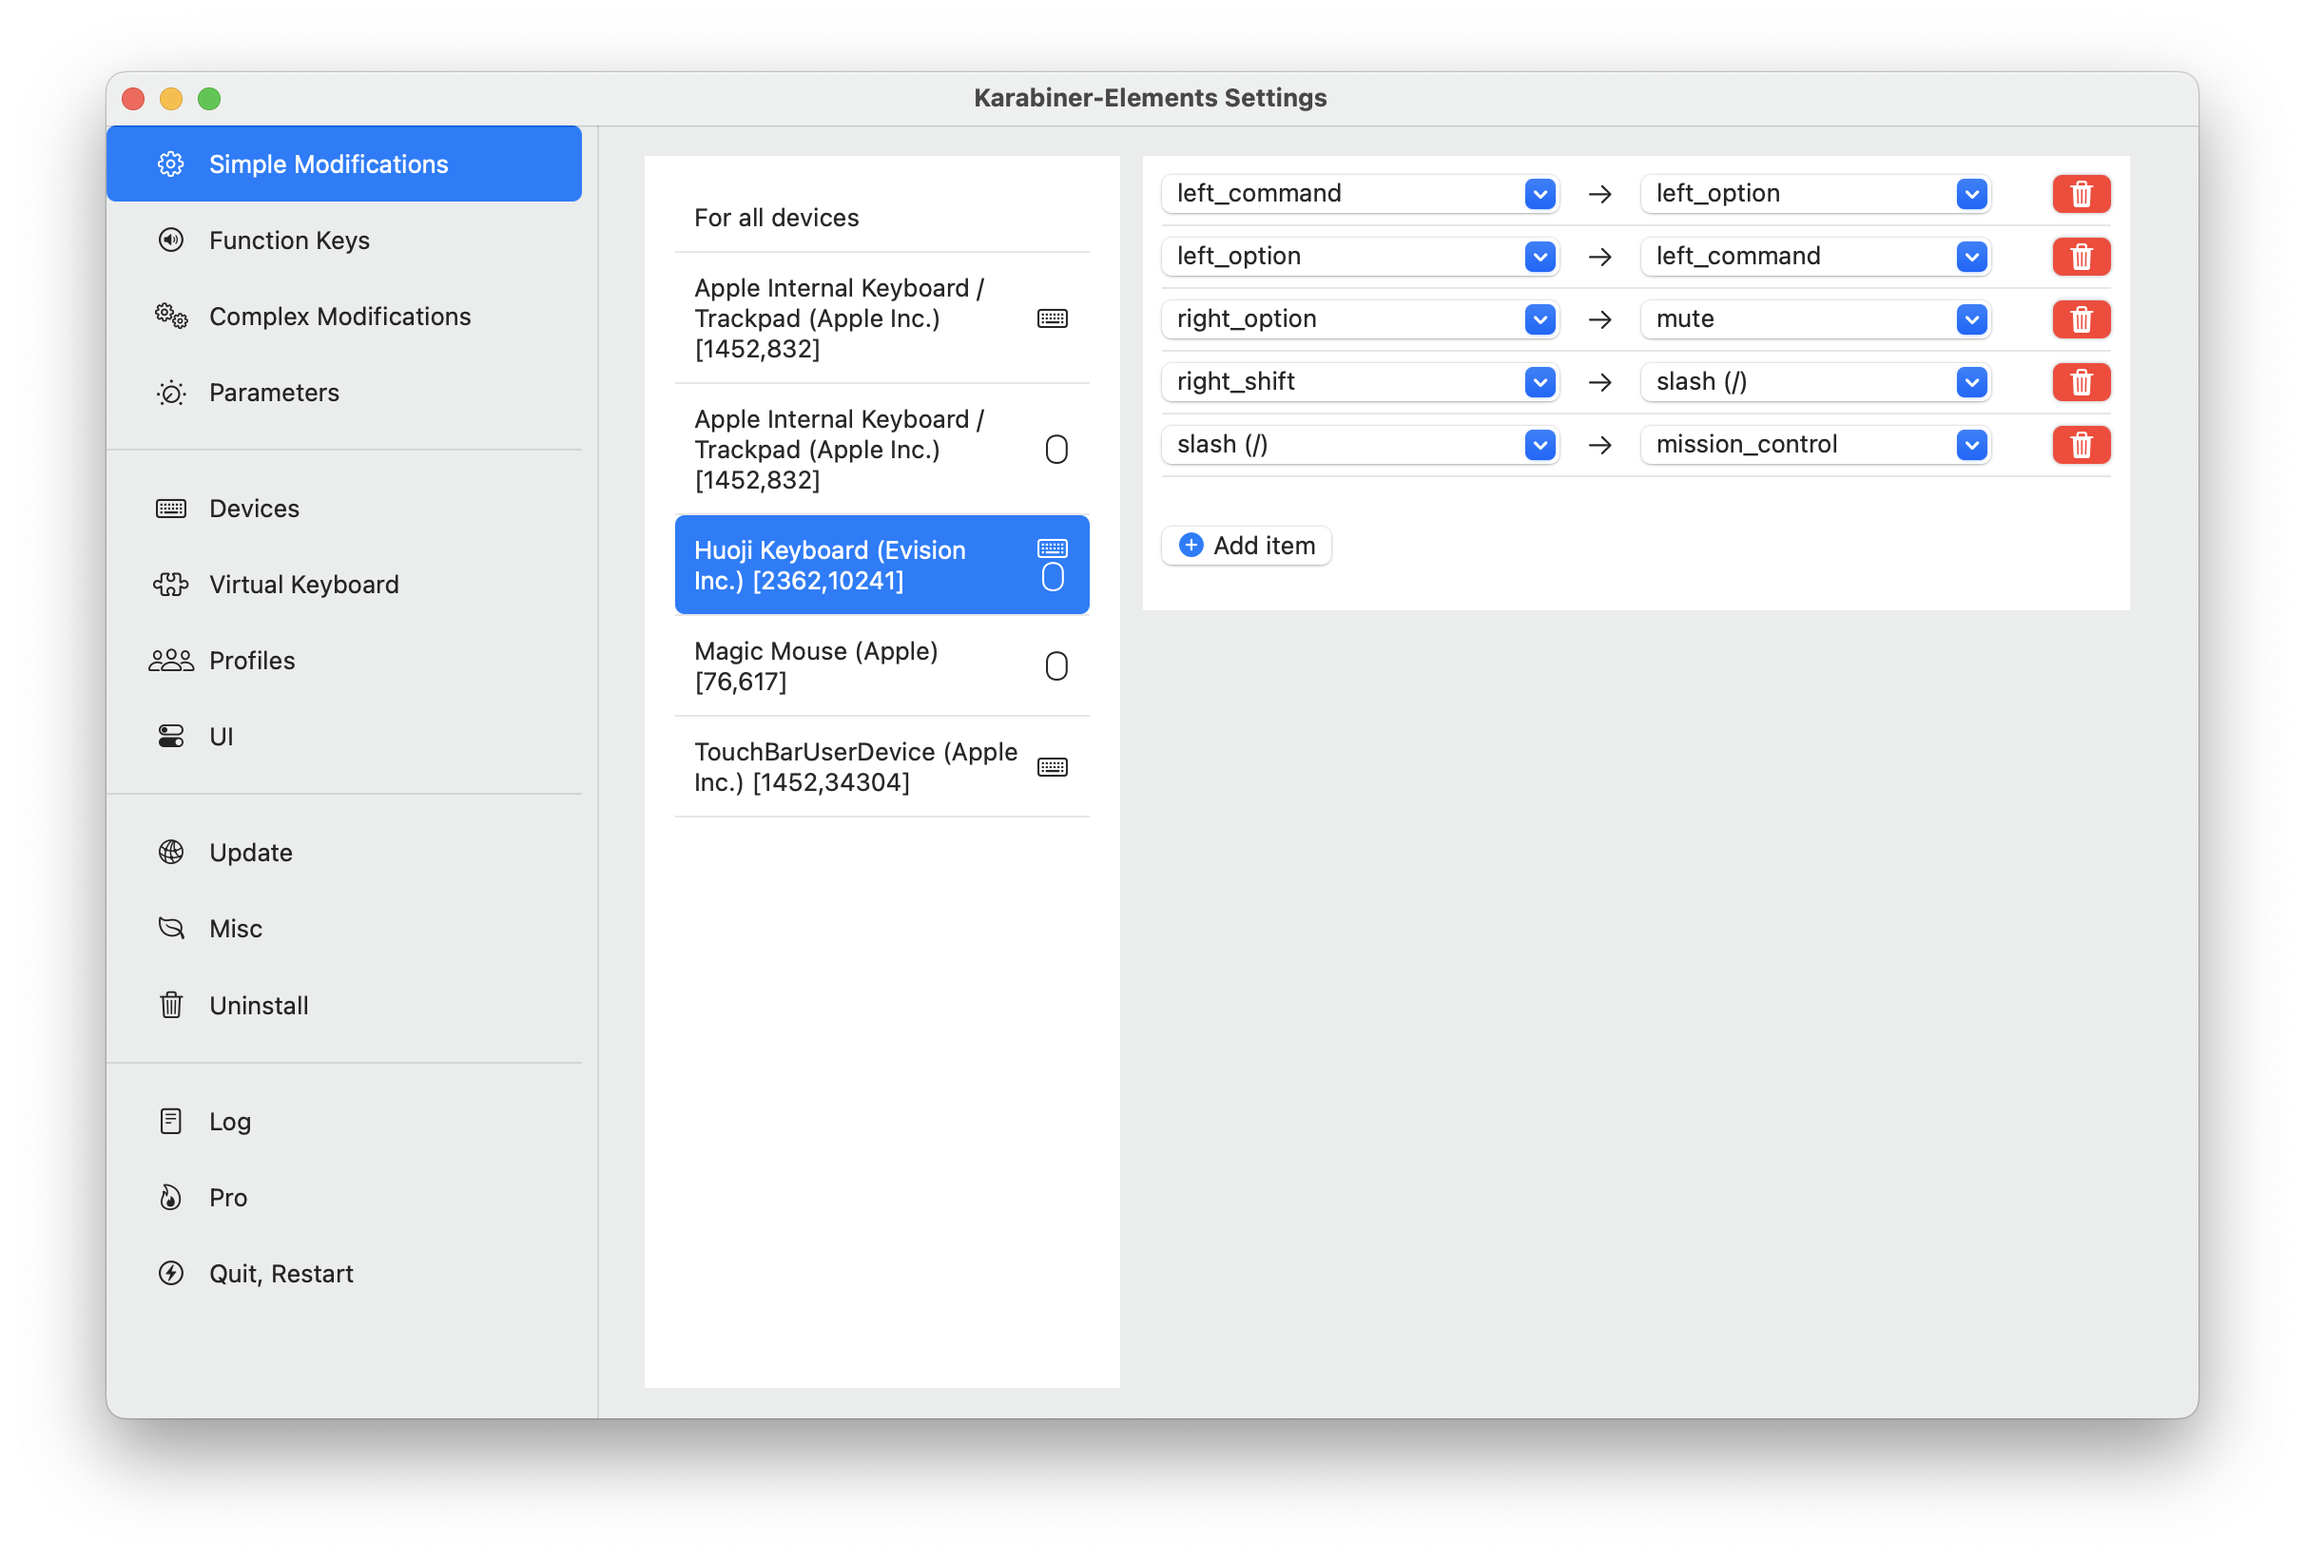
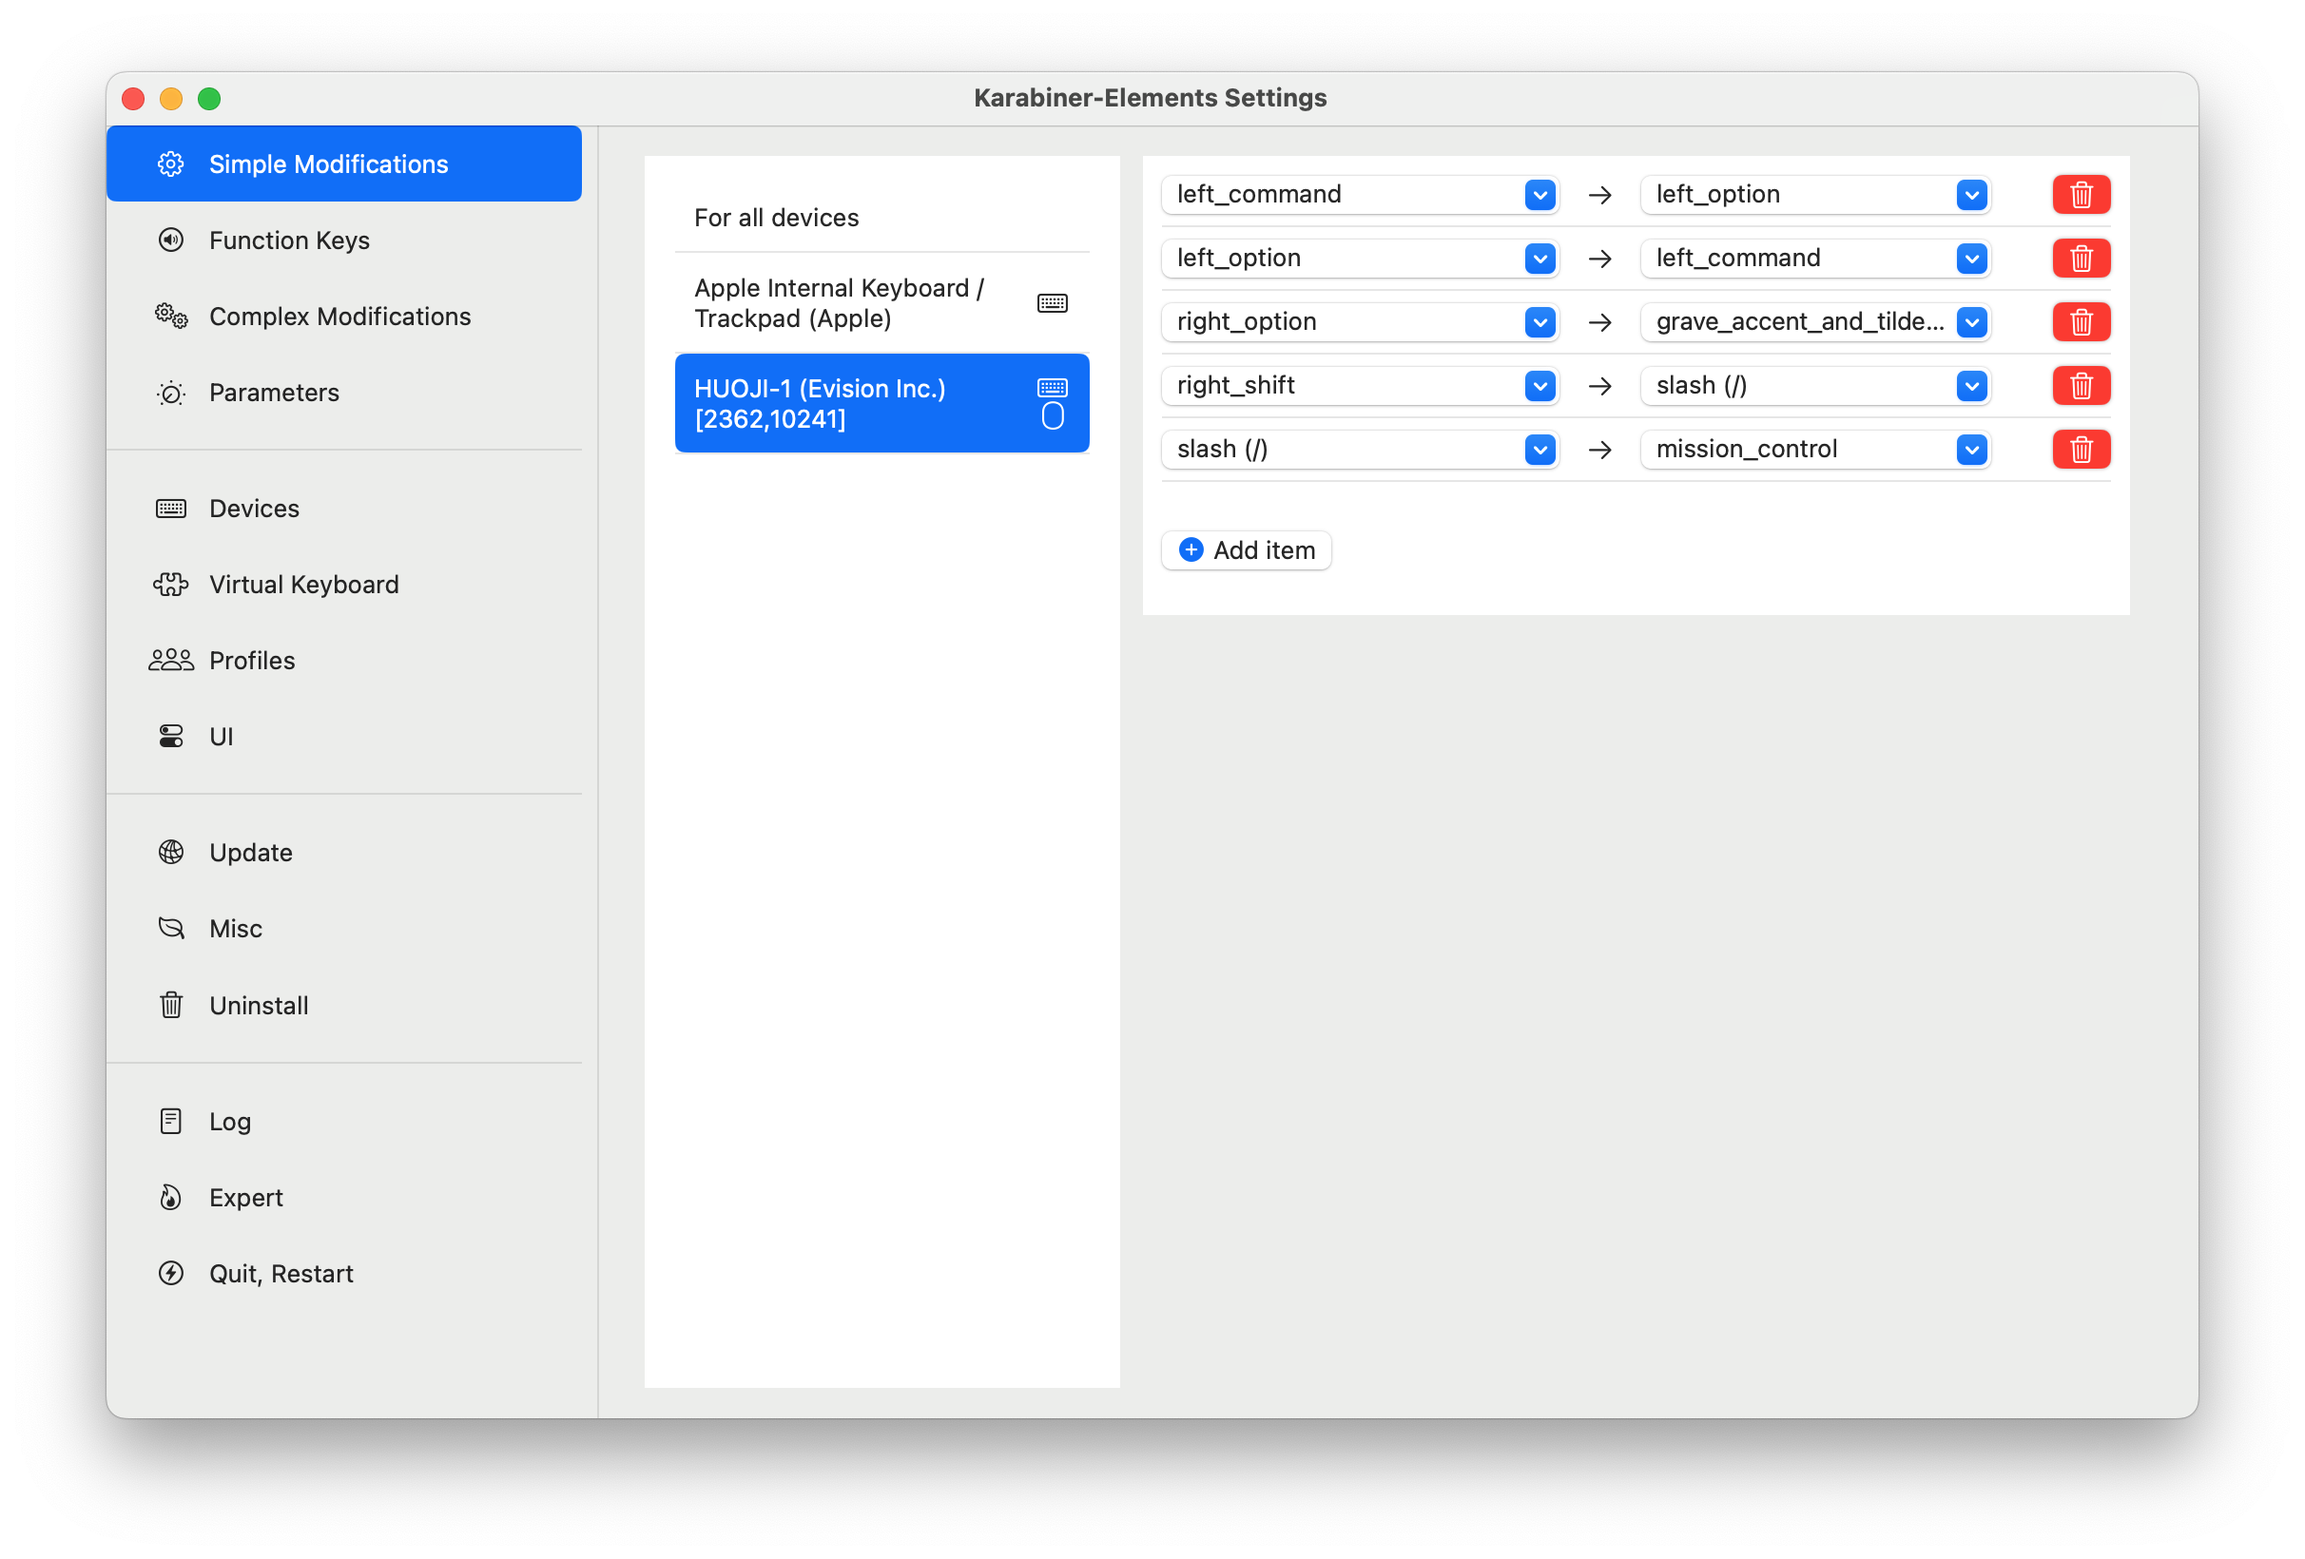
update keyboard remappings

diff --git a/keyboard.md b/keyboard.md
@@ -4,6 +4,7 @@ these notes are for the Huoji CQ63 60%
 - download and install [karabiner-elements](https://karabiner-elements.pqrs.org/) (have `v14.12.0`) open source [here](https://github.com/pqrs-org/Karabiner-Elements)
 - it may ask for the following access
 ![](/img/karabiner_settings.png)
+- if Mac asks for the keyboard type--choose ISO (not ANSI)
 
 ### remap function keys
 - in Function Keys
@@ -11,9 +12,6 @@ these notes are for the Huoji CQ63 60%
 
 ### remap other keys
 - in Simple Modifications ![](/img/keyboard_remappings.png)
-
-### special remaps
-- in Complex Modifications install the following modifications ![](/img/keyboard_complex_remappings.png)
 
 ## set RBG
 this was the original keyboard layout, before swapping any keys
